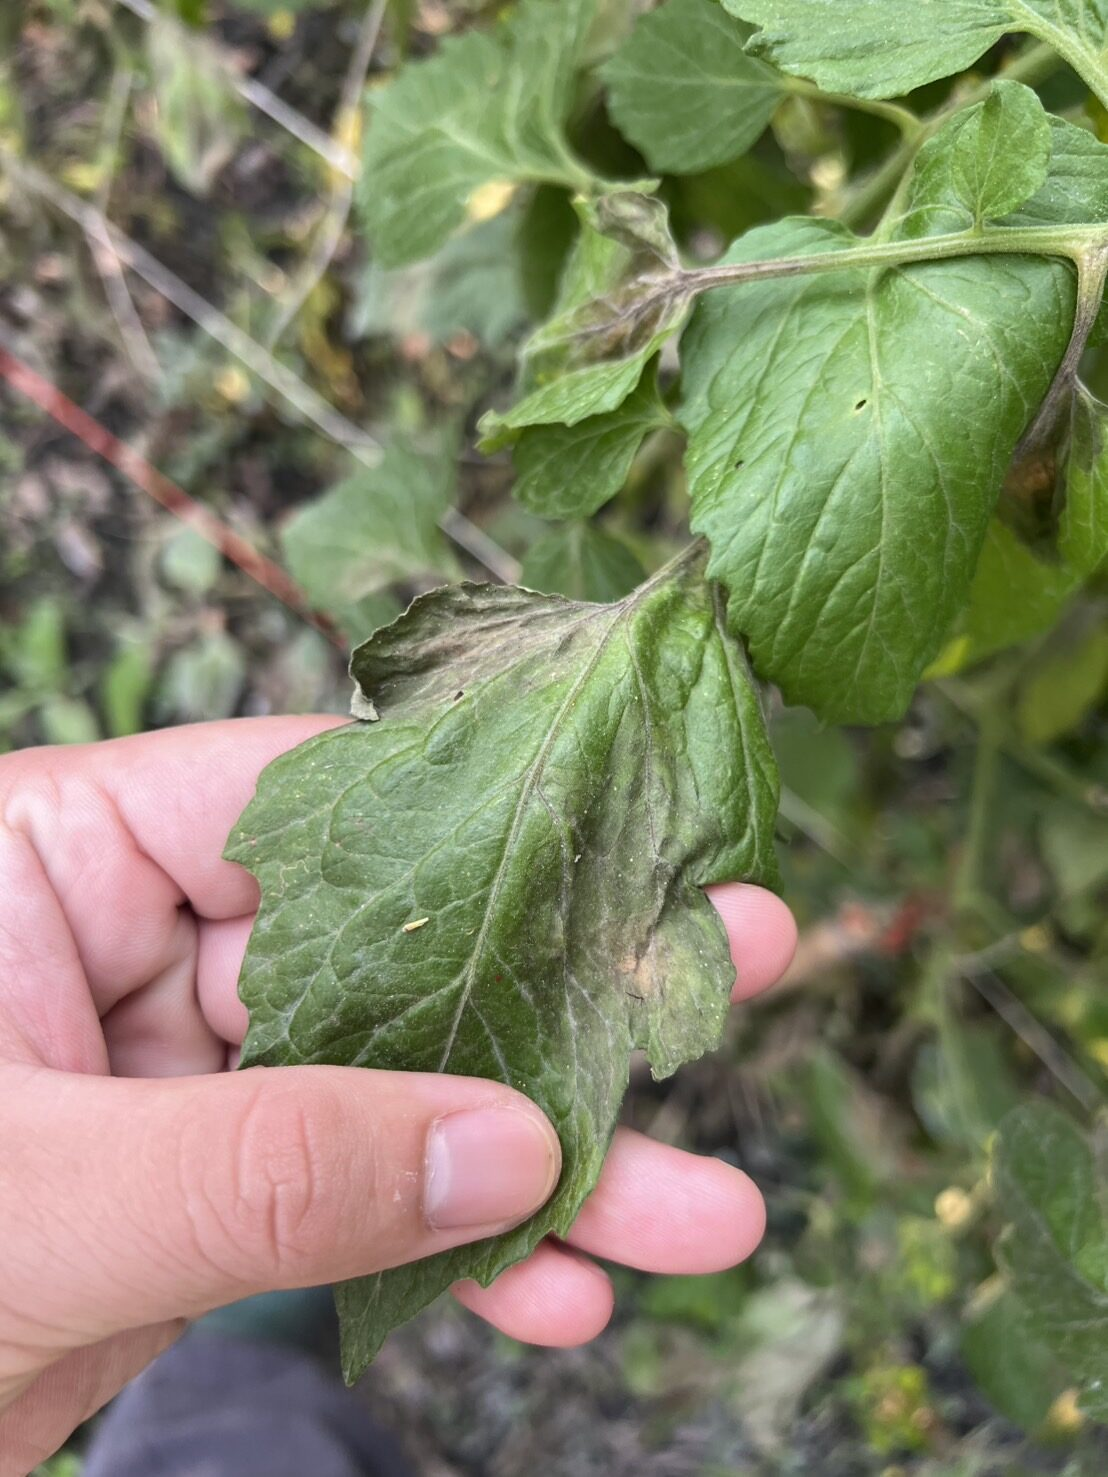
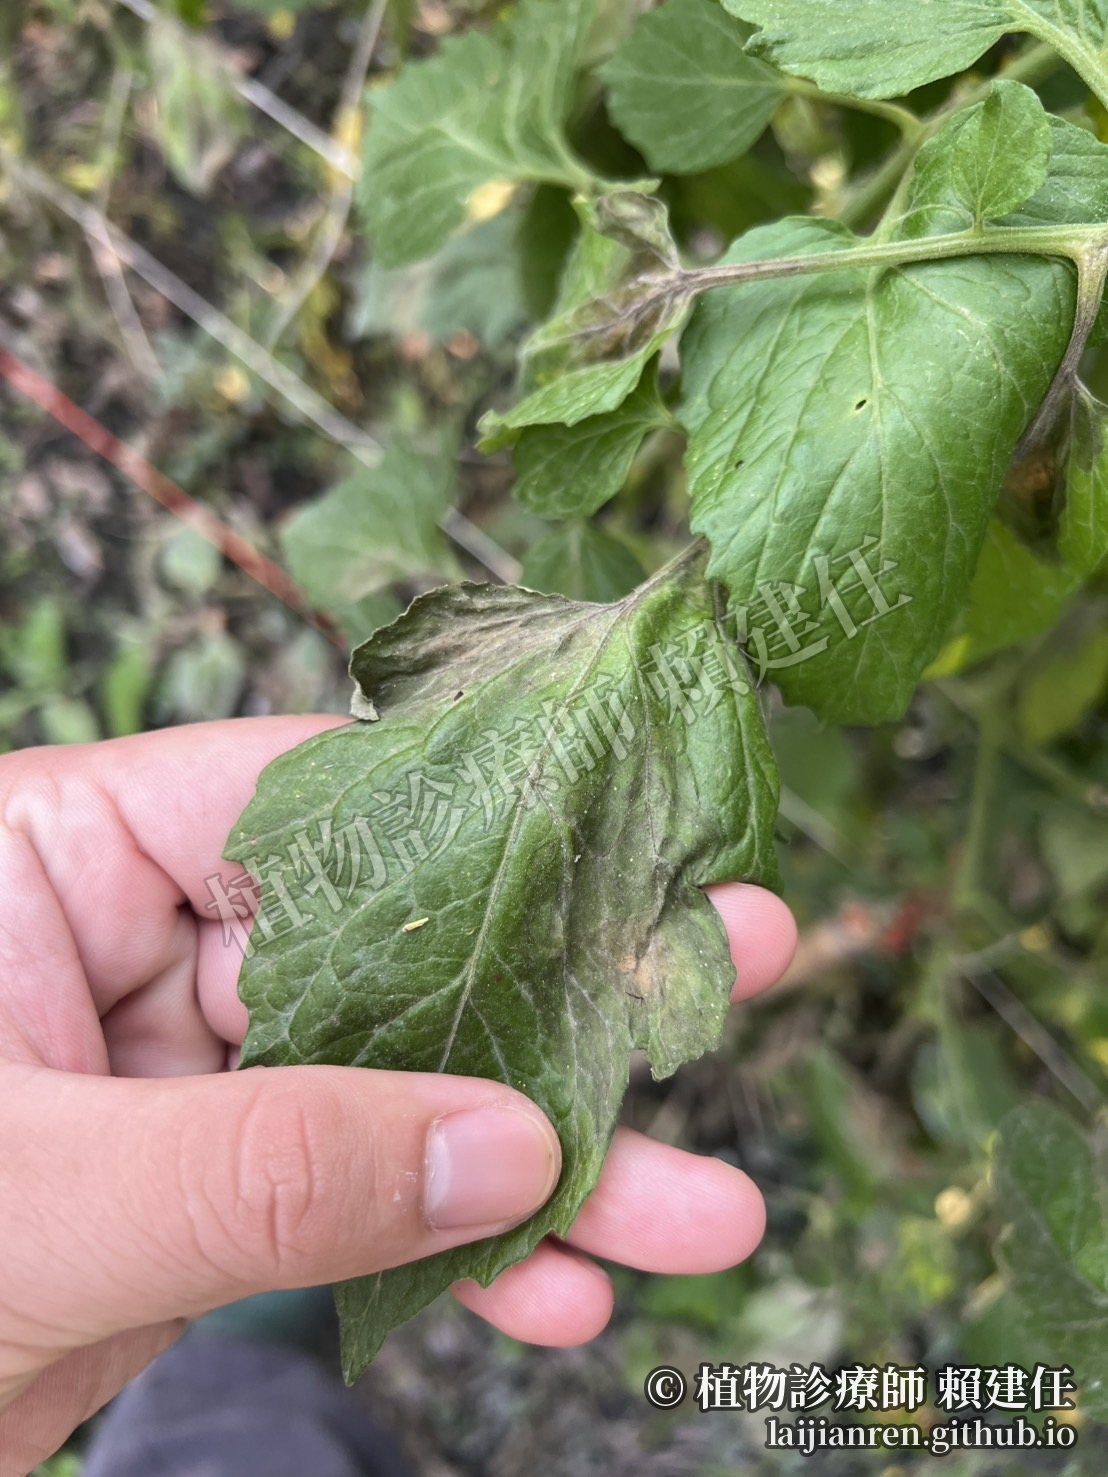
案件照片加上署名浮水印；照片停用右鍵另存與拖曳
Claude-Session: https://claude.ai/code/session_01XJGjkT6ynprrpQ61onDbZk

Changed region(s): [[0.1841, 0.3426, 0.8285, 0.654], [0.583, 0.9032, 0.9819, 0.9966]]

diff --git a/assets/style.css b/assets/style.css
@@ -230,3 +230,4 @@ svg.ink.slow path, svg.ink.slow circle, svg.ink.slow ellipse, svg.ink.slow rect 
 .lead-photo { margin: 0 0 14px; }
 .lead-photo img { display: block; width: 100%; aspect-ratio: 16 / 10; object-fit: cover; border: 1px solid var(--rule); filter: sepia(.12) contrast(1.03); }
 .lead-photo figcaption { font-size: .82rem; color: var(--muted); padding-top: 5px; border-bottom: 1px solid var(--rule); padding-bottom: 6px; }
+main img, .lightbox img { -webkit-user-drag: none; -webkit-touch-callout: none; user-select: none; }

diff --git a/assets/motion.js b/assets/motion.js
@@ -205,3 +205,7 @@
   box.addEventListener('click', function (e) { if ((e.target === box || e.target === stage) && !downOnImg && !moved && scale === 1) close(); });
   stage.addEventListener('pointercancel', end);
 })();
+
+// 照片防右鍵另存、防拖曳（搭配浮水印的輕度保護）
+document.addEventListener('contextmenu', function (e) { if (e.target.tagName === 'IMG') e.preventDefault(); });
+document.addEventListener('dragstart', function (e) { if (e.target.tagName === 'IMG') e.preventDefault(); });
